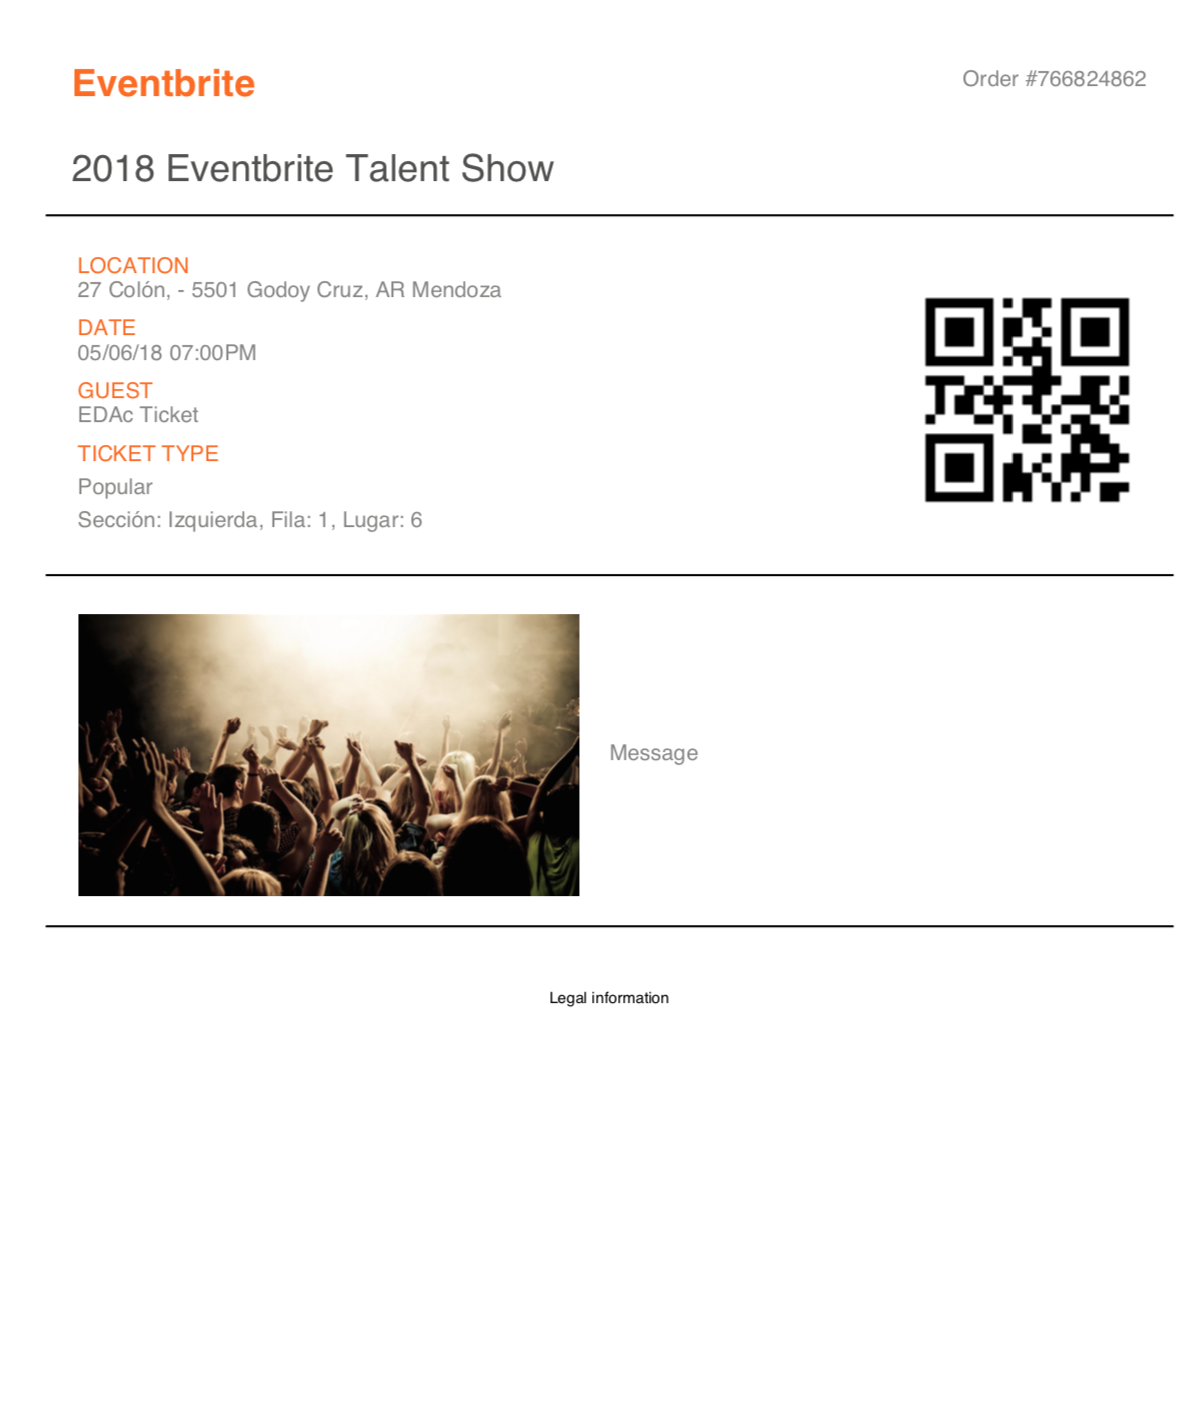
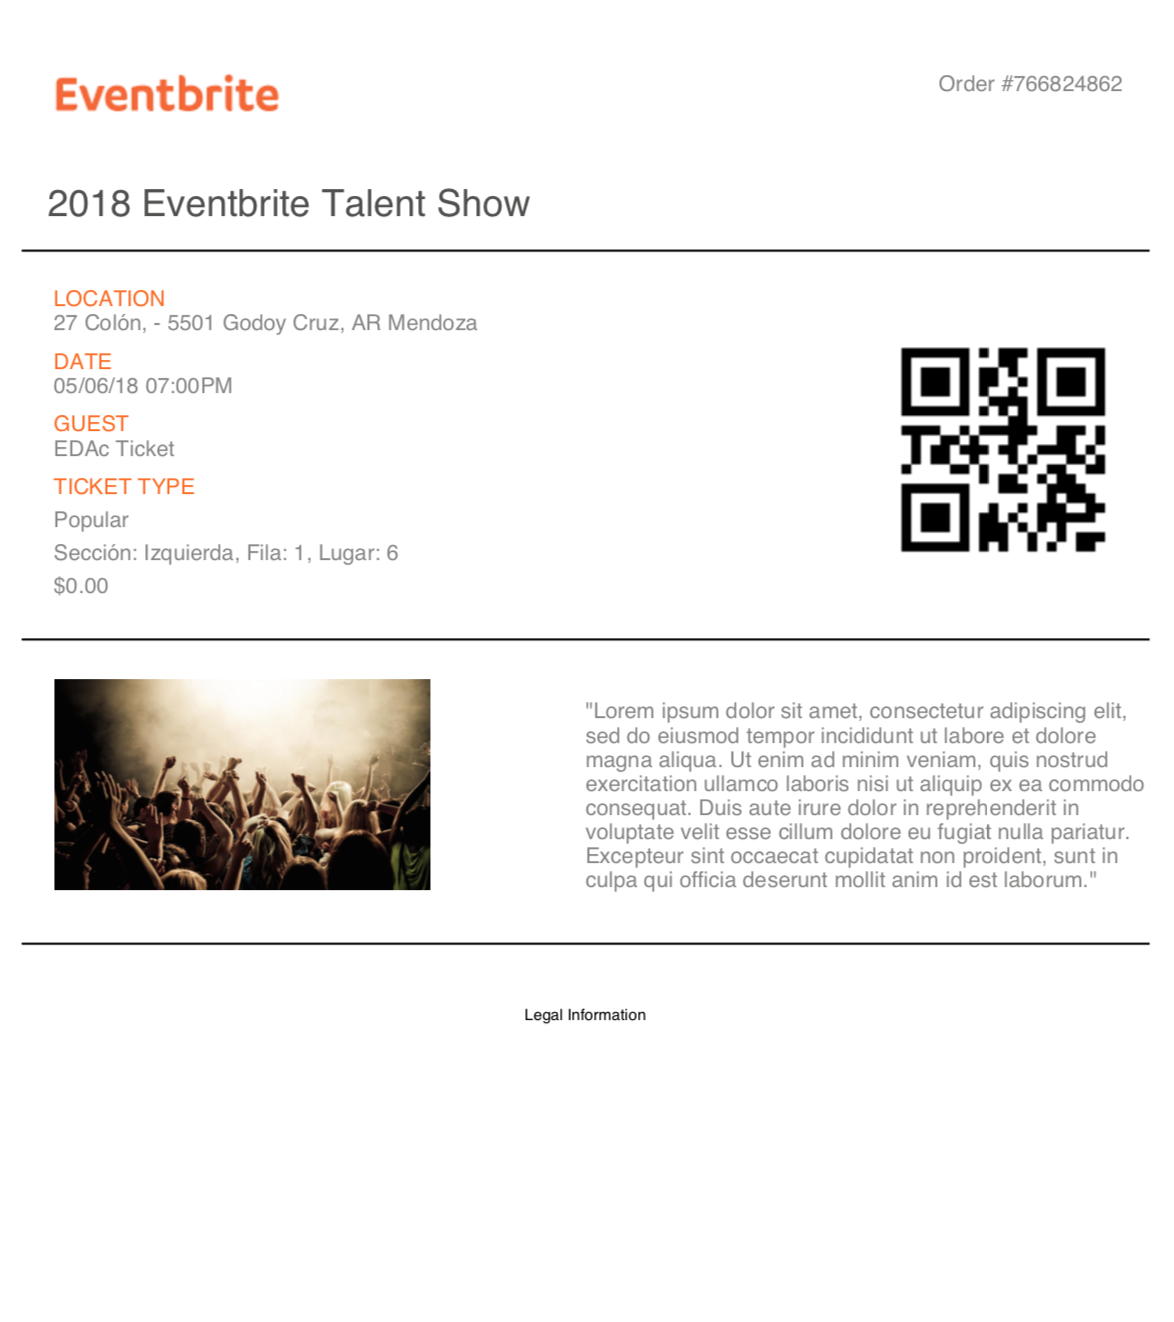
fix the field show price, change the templates, fix the test and form and the new migration cause the change of the field show price

diff --git a/templates/tickets/template_default.html b/templates/tickets/template_default.html
@@ -18,48 +18,62 @@
         width: 100px;
         height: 100px;
         }
+        .qr-code{
+        width: 180px;
+        }
+        .logo {
+        float: left;
+        width: 150px;
+        height:150px;
+}
         </style>
         <body>
-
-            <td class="m_4623262137051836037x_grid__col" style="padding:32px 40px;background-color:#ededed">
-                <table cellpadding="0" cellspacing="0" border="0" class="m_4623262137051836037x_no_text_resize" style="width:100%;margin-bottom:12px">
+                <table>
                     <tbody>
                         <tr>
                             <td>
+                                <div class="logo">
                                 <!-- LOGO -->
-                                <img style="width: 150px; height: 150px;" src="{{ logo_url }}" alt="LOGO" border="0" >
+                                <img src="{{ logo_url }}" alt="LOGO" border="0" >
                                 <!-- END LOGO -->
+                            </div>
                             </td>
-                            <td colspan="2" style="text-align:right;"">
+
+                            <td colspan="2" style="text-align:right; width: 150px" >
+                                <div class="qr-code">
                                 {% qr_from_text attendee.barcode "m" %}
+                                </div>
+                                <br>
                             </td>
+
                         </tr>
-                        <br>
+
                         <tr>
                             <td colspan="2">
                                 <h2 style="color:#404040;font-weight:300;margin:0 0 12px 0;font-size:24px;line-height:30px">
                                 {{event_name_text}} </h2>
+                                <br>
                             </td>
                         </tr>
+                        <br>
                         <tr>
-                            <td colspan="3">
+                            <td>
                                 <p style="color:#666666;font-weight:400;font-size:15px;line-height:21px;margin-bottom:18px">
-                                    <br> Order: {{order_id}} <br>
+                                    <b>Order:</b> {{order_id}} <br>
                                     {% if attendee.ticket_type_sequence %}
-                                          Sequence #{{ attendee.ticket_type_sequence }}<br>
+                                          <b>Sequence</b> #{{ attendee.ticket_type_sequence }}<br>
                                       {% endif %}
                                       {% if attendee.event_sequence %}
                                           Sequence #{{ attendee.event_sequence }}<br>
                                       {% endif %}
-                                    Order Status: {{order_status}} <br>
-                                    Aditional Information: {{message_ticket}} <br>
-                                     {% if attendee.reserved_seating %}
-                                                   {{ attendee.reserved_seating }}
-                                                {% endif %}<br>
+                                    <b>Order Status:</b> {{order_status}} <br>
+                                    <b>Venue Addreess:</b>
                                     {{event_venue_location.address_1|default_if_none:""}} | {{event_venue_location.address_2|default_if_none:""}} |
                                     {{event_venue_location.city|default_if_none:""}} | {{event_venue_location.region|default_if_none:""}} | {{event_venue_location.country|default_if_none:""}}
 
                                 </p>
+                                <br>
+                            </td>
                                 <table cellpadding="0" cellspacing="0" border="0" style="width:100%">
                                     <thead>
                                         <tr>
@@ -71,11 +85,17 @@
                                                 <div style="color:#666666;font-weight:400;font-size:15px;line-height:21px;font-weight:500">
                                                 Type </div>
                                             </th>
+                                            {% if attendee.reserved_seating %}
+                                            <th style="border-bottom:1px dashed #d3d3d3;text-align:left;padding-bottom:12px;padding-right:12px">
+                                                <div style="color:#666666;font-weight:400;font-size:15px;line-height:21px;font-weight:500">
+                                                Section </div>
+                                            </th>
+                                            {% endif %}
                                             <th style="border-bottom:1px dashed #d3d3d3;text-align:right;padding-bottom:12px;padding-right:0">
                                                 <div style="color:#666666;font-weight:400;font-size:15px;line-height:21px;font-weight:500">
                                                 Quantity </div>
                                             </th>
-                                            {% if customization.ticket_template.show_ticket_type_price %}
+                                            {% if not customization.ticket_template.hide_ticket_type_price %}
                                             <th style="border-bottom:1px dashed #d3d3d3;text-align:right;padding-bottom:12px;padding-right:0">
                                                 <div style="color:#666666;font-weight:400;font-size:15px;line-height:21px;font-weight:500">
                                                 Cost </div>
@@ -94,11 +114,17 @@
                                                 <div style="color:#666666;font-weight:400;font-size:15px;line-height:21px">
                                                 {{attendee.ticket_class}}  </div>
                                             </td>
+                                            {% if attendee.reserved_seating %}
+                                            <td style="padding:12px 0;padding-right:3px">
+                                                <div style="color:#666666;font-weight:400;font-size:15px;line-height:21px">
+                                                {{ attendee.reserved_seating }} </div>
+                                            </td>
+                                            {% endif %}
                                             <td style="text-align:right;padding:12px 0">
                                                 <div style="color:#666666;font-weight:400;font-size:15px;line-height:21px">
                                                 {{attendee.quantity}} 1</div>
                                             </td>
-                                            {% if customization.ticket_template.show_ticket_type_price %}
+                                            {% if not customization.ticket_template.hide_ticket_type_price %}
                                             <td style="text-align:right;padding:12px 0">
                                                 <div style="color:#666666;font-weight:400;font-size:15px;line-height:21px">
                                                       {{ attendee.cost_gross }}
@@ -108,13 +134,41 @@
                                         </tr>
                                     </tbody>
                                 </table>
-                            </td>
-                        </tr>
                     </tbody>
                 </table>
-            </td>
-                                        <!-- IMAGE PARTNER -->
-    <img style="width: 300px; height: 300px;" src="{{ image_partner_url }}" alt="LOGO" border="0" > <br><br>
+            <!-- IMAGE PARTNER -->
+<table>
+ <td style="color: #001b47;">
+  <hr>
+  <br>
+    </td>
+</table>
+    {% if image_partner_url %}
+    <table>
+         <tr>
+           <td style="color: #001b47; padding-left: 10px">
+            <div>
+                <img style="width: 240px; height: 135px;" src="{{ image_partner_url }}" alt="LOGO" border="0" > <br><br>
+            </div>
+             </td>
+             <td style="color: #878685; text-align: left;">
+                <span style="font-size: 14px;color:#878685;">
+                  {{message_ticket}}
+                </span>
+                </td>
+                 </tr>
+    </table>
+    {% else %}
+    <table>
+         <tr>
+             <td style="color: #878685; text-align: center;">
+                <span style="font-size: 14px;color:#878685;">
+                  {{message_ticket}}
+                </span>
+                </td>
+                 </tr>
+    </table>
+    {% endif %}
                                 <!-- END IMAGE PARTNER -->
             <span style="text-align: center;">
                 {{footer_description}}
@@ -171,7 +225,7 @@
           <span style="font-size: 10px; font-weight: bold;">TICKET TYPE<br></span>
             <span style="font-size: 10px;color:#878685;">
            {{attendee.ticket_class}} <br>
-           {% if customization.ticket_template.show_ticket_type_price %}
+           {% if customization.ticket_template.hide_ticket_type_price %}
                 {{ attendee.cost_gross }}
             {% endif %}
            </p>

diff --git a/templates/tickets/hero_design.html b/templates/tickets/hero_design.html
@@ -36,8 +36,12 @@ hr.line {
 }
 .logo {
 float: left;
-width: 320px;
-height: 180px;
+width: 160px;
+height: 60px;
+}
+.partner-img{
+  width: 240px;
+  height: 135px;
 }
 .qrdob{
 float: left;
@@ -50,7 +54,9 @@ height: 100px;
 <table>
   <tr >
     <th style="background: white; font-weight: bold;">
-        <span style="font-size: 24px; color: #ff6c0a;">Eventbrite</span>
+         <div class="logo">
+        <img src="{{ logo_url }}" alt="LOGO" border="0" >
+        </div>
     </th>
 
     <th style="text-align: right;font-weight: normal;width: 300px;font-size: 14px;color:#878685;">
@@ -125,7 +131,7 @@ height: 100px;
               {{ attendee.reserved_seating }}
         {% endif %}
         <br>
-         {% if customization.ticket_template.show_ticket_type_price %}
+         {% if not customization.ticket_template.hide_ticket_type_price %}
               {{ attendee.cost_gross }}
           {% endif %}
          </p>
@@ -148,11 +154,12 @@ height: 100px;
 </table>
 <!-- - - - -  - - - - - - - - END TICKET DETAIL - - - - - - - - - - - - - -->
 <!-- - - - -  - - - - - - - - FOOTER TICKET - - - - - - - - - - - - - -->
+{% if image_partner_url %}
 <table>
   <tr>
     <td style="color: #001b47; padding-left: 10px">
-      <div class="logo">
-        <img src="{{ logo_url }}" alt="LOGO" border="0" >
+      <div class="partner-img">
+        <img style="width: 240px; height: 135px;" src="{{ image_partner_url }}" alt="LOGO" border="0" > <br><br>
         </div>
 
     </td>
@@ -164,6 +171,18 @@ height: 100px;
     </td>
   </tr>
 </table>
+{% else %}
+<table>
+  <tr>
+
+    <td style="color: #878685; text-align: center;">
+                <span style="font-size: 14px;color:#878685;">
+                  {{message_ticket}}
+                </span>
+    </td>
+  </tr>
+</table>
+{% endif %}
 <br>
 <table>
  <td style="color: #001b47;">
@@ -228,9 +247,7 @@ height: 100px;
           <span style="font-size: 10px; font-weight: bold;">TICKET TYPE<br></span>
             <span style="font-size: 10px;color:#878685;">
            {{attendee.ticket_class}} <br>
-           {% if customization.ticket_template.show_ticket_type_price %}
                 {{ attendee.cost_gross }}
-            {% endif %}
            </p>
           </span>
 

diff --git a/templates/tickets/geo_design.html b/templates/tickets/geo_design.html
@@ -188,7 +188,7 @@ right: 0pt; width: 306pt; top: 396pt; height: 396pt;border:1px dashed #ccc;}
                                     {% if attendee.reserved_seating %}<br>
                                                       {{ attendee.reserved_seating }}
                                                 {% endif %}
-                                    {% if customization.ticket_template.show_ticket_type_price %}
+                                    {% if not customization.ticket_template.hide_ticket_type_price %}
                                                       {{ attendee.cost_gross }}
                                                 {% endif %}
                                 </span>
@@ -202,6 +202,32 @@ right: 0pt; width: 306pt; top: 396pt; height: 396pt;border:1px dashed #ccc;}
 <!-- - - - - - - - - - - - - - - 3RD QUAD - - - - - - - - - - - - - - - - - -->
     <div id="rd_quad">
         <div style="font-family: myFirstFont;padding: 10px;text-align: right;">
+            {% if image_partner_url %}
+    <table>
+         <tr>
+           <td style="color: #001b47; padding-left: 10px">
+            <div>
+                <img style="width: 240px; height: 135px;" src="{{ image_partner_url }}" alt="LOGO" border="0" > <br><br>
+            </div>
+             </td>
+             <td style="color: #878685; text-align: left;">
+                <span style="font-size: 14px;color:#878685;">
+                  {{message_ticket}}
+                </span>
+                </td>
+                 </tr>
+    </table>
+    {% else %}
+    <table>
+         <tr>
+             <td style="color: #878685; text-align: center;">
+                <span style="font-size: 14px;color:#878685;">
+                  {{message_ticket}}
+                </span>
+                </td>
+                 </tr>
+    </table>
+    {% endif %}
         <span style="font-family: myFirstFont;font-weight: bold; padding: 20px;color:#ADB0B6;">
           Then here
           <img width="18px" src="static/images/arrow_right.png" alt="arrow">

diff --git a/templates/customizations/create.html b/templates/customizations/create.html
@@ -80,7 +80,7 @@
                 <br>
             </div>
 
-            {{ form.show_ticket_type_price }} <b>Price</b> <br> Select if you need to hide the price of ticket purchased<br>
+            {{ form.hide_ticket_type_price }} <b>Price</b> <br> Select if you need to hide the price of ticket purchased<br>
 
             <br><b>{{ form.double_ticket }} {{ form.double_ticket.label }} </b> <br>Select if you need the information of the tickets duplicated one page for each attendee.<br>
             <br>

diff --git a/templates/customizations/update.html b/templates/customizations/update.html
@@ -48,7 +48,7 @@
       <br/>
       {{ form.show_ticket_type_sequence.label }} : {{ form.show_ticket_type_sequence }}
       <br/>
-      {{ form.show_ticket_type_price.label }} : {{ form.show_ticket_type_price }}
+      {{ form.hide_ticket_type_price.label }} : {{ form.hide_ticket_type_price }}
       <br/>
       {{ form.double_ticket.label }} : {{ form.double_ticket }}
       <br/>

diff --git a/customizations/views.py b/customizations/views.py
@@ -143,7 +143,7 @@ class ViewCreateCustomization(LoginRequiredMixin, FormView):
                 message_ticket = request.POST.get('message_ticket')
                 show_event_sequence = request.POST.get('show_event_sequence') == 'on'
                 show_ticket_type_sequence = request.POST.get('show_ticket_type_sequence') == 'on'
-                show_ticket_type_price = request.POST.get('show_ticket_type_price') == 'on'
+                hide_ticket_type_price = request.POST.get('hide_ticket_type_price') == 'on'
                 footer_description = request.POST.get('footer_description')
                 double_ticket = request.POST.get('double_ticket') == 'on'
                 template = get_object_or_404(
@@ -154,7 +154,7 @@ class ViewCreateCustomization(LoginRequiredMixin, FormView):
                     message_ticket=message_ticket,
                     show_event_sequence=show_event_sequence,
                     show_ticket_type_sequence=show_ticket_type_sequence,
-                    show_ticket_type_price=show_ticket_type_price,
+                    hide_ticket_type_price=hide_ticket_type_price,
                     footer_description=footer_description,
                     double_ticket=double_ticket,
                 )
@@ -207,7 +207,7 @@ def update_customization(request, pk):
         'footer_description': ticket_template.footer_description,
         'show_event_sequence': ticket_template.show_event_sequence,
         'show_ticket_type_sequence': ticket_template.show_ticket_type_sequence,
-        'show_ticket_type_price': ticket_template.show_ticket_type_price,
+        'hide_ticket_type_price': ticket_template.hide_ticket_type_price,
         'double_ticket': ticket_template.double_ticket,
         'image_partner': custom_email.image_partner,
     })
@@ -229,8 +229,8 @@ def update_customization(request, pk):
                 'show_event_sequence']
             ticket_template.show_ticket_type_sequence = form.cleaned_data[
                 'show_ticket_type_sequence']
-            ticket_template.show_ticket_type_price = form.cleaned_data[
-                'show_ticket_type_price']
+            ticket_template.hide_ticket_type_price = form.cleaned_data[
+                'hide_ticket_type_price']
             ticket_template.double_ticket = form.cleaned_data[
                 'double_ticket']
             custom_email.save()

diff --git a/customizations/migrations/0005_auto_20180507_0956.py b/customizations/migrations/0005_auto_20180507_0956.py
@@ -1,0 +1,20 @@
+# -*- coding: utf-8 -*-
+# Generated by Django 1.11.11 on 2018-05-07 12:56
+from __future__ import unicode_literals
+
+from django.db import migrations
+
+
+class Migration(migrations.Migration):
+
+    dependencies = [
+        ('customizations', '0004_merge_20180504_1242'),
+    ]
+
+    operations = [
+        migrations.RenameField(
+            model_name='tickettemplate',
+            old_name='show_ticket_type_price',
+            new_name='hide_ticket_type_price',
+        ),
+    ]

diff --git a/customizations/models.py b/customizations/models.py
@@ -35,7 +35,7 @@ class TicketTemplate(TimeStampedModel):
     message_ticket = models.TextField()
     show_event_sequence = models.BooleanField(default=False)
     show_ticket_type_sequence = models.BooleanField(default=False)
-    show_ticket_type_price = models.BooleanField(default=False)
+    hide_ticket_type_price = models.BooleanField(default=False)
     footer_description = models.TextField(blank=True, null=True)
     double_ticket = models.BooleanField(default=False)
 

diff --git a/customizations/tests.py b/customizations/tests.py
@@ -89,7 +89,7 @@ class IndexViewTest(TestBase):
             data={
                 u'name': [u'prueba'],
                 u'show_ticket_type_sequence': [u'on'],
-                u'show_ticket_type_price': [u'on'],
+                u'hide_ticket_type_price': [u'on'],
                 u'select_event': [u'Apply All Events'],
                 u'message_ticket': [u'prueba ticket'],
                 u'additional_info': [u'asdasd'],

diff --git a/customizations/forms.py b/customizations/forms.py
@@ -153,9 +153,9 @@ class FormCustomization(forms.ModelForm):
         label="Show sequence of ticket by type",
     )
 
-    show_ticket_type_price = forms.BooleanField(
+    hide_ticket_type_price = forms.BooleanField(
         required=False,
-        label="Show price of ticket purchased",
+        label="Hide price of ticket purchased",
     )
 
     double_ticket = forms.BooleanField(
